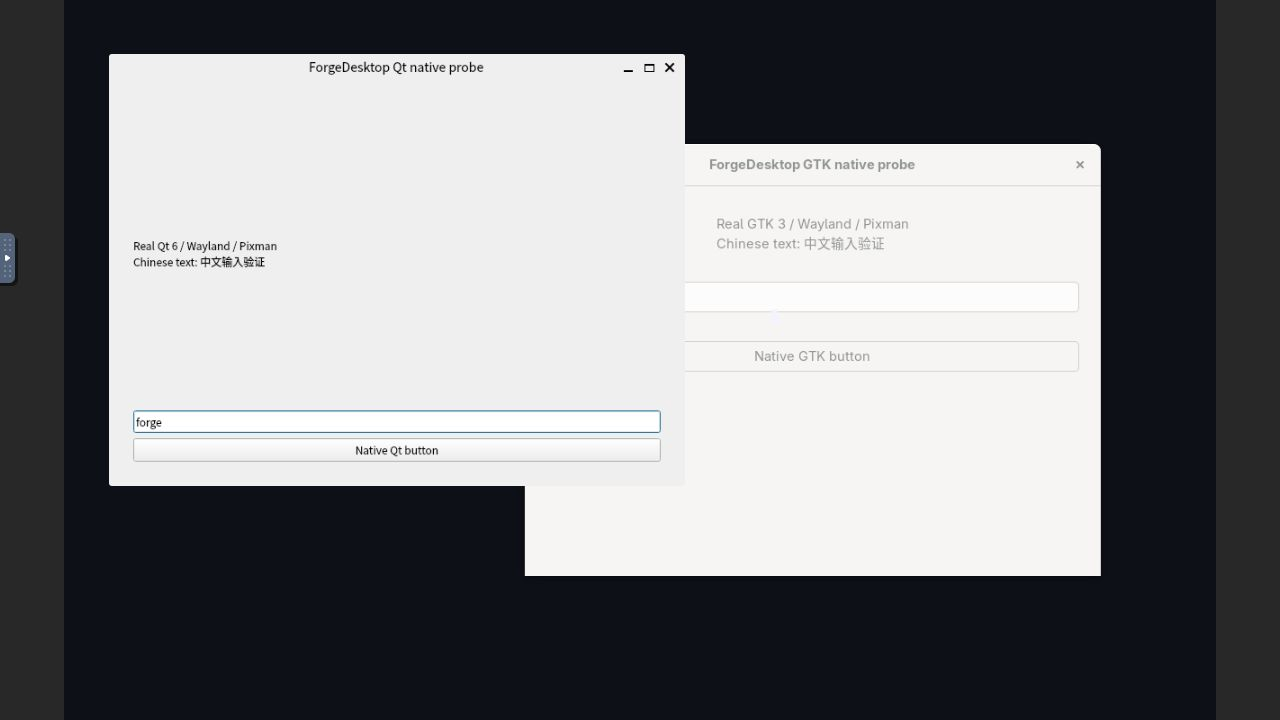
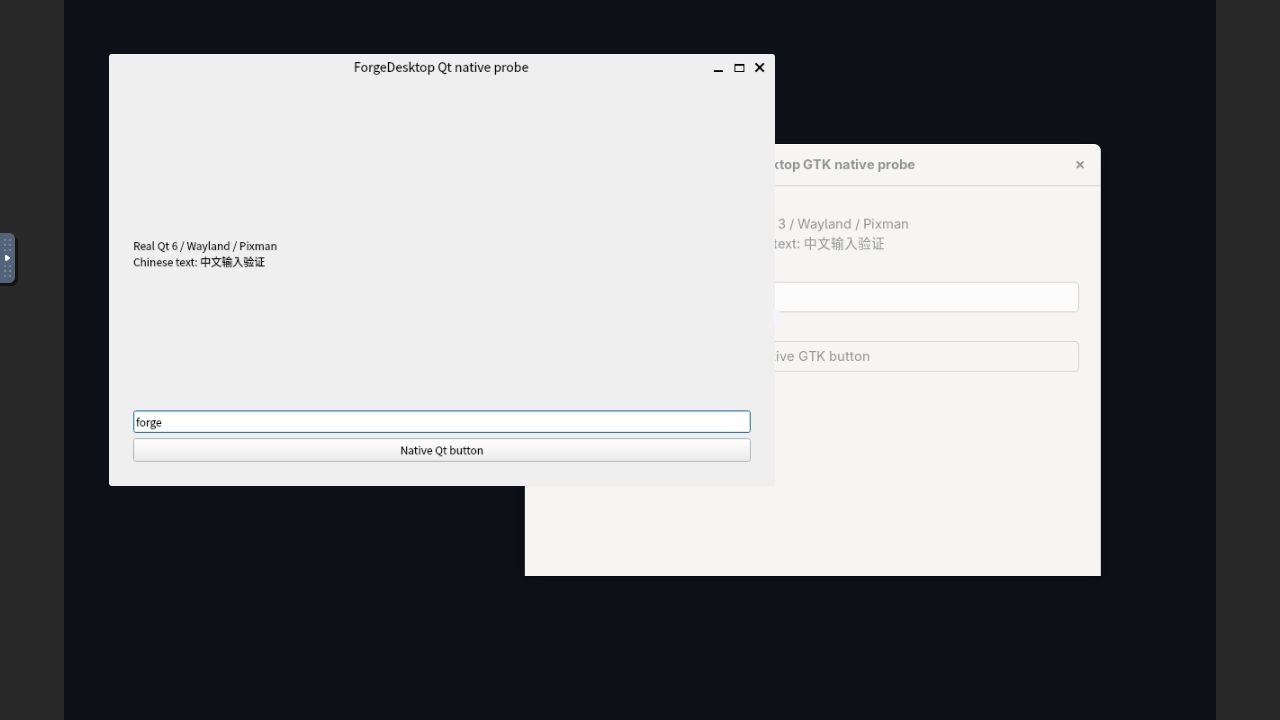
test(vm): add private isolated guest diagnostics

diff --git a/tests/fixtures/isolated_guest.py b/tests/fixtures/isolated_guest.py
@@ -1,0 +1,97 @@
+#!/usr/bin/env python3
+"""Lab-only QEMU Guest Agent client for the disposable native-desktop VM.
+
+Never ship this fixture or qemu-guest-agent in the release desktop bundle. The
+channel gives the trusted VM host root execution inside its own isolated guest.
+No TCP listener, shell expansion, or production-instance selection is provided.
+"""
+import argparse
+import base64
+import json
+import secrets
+import socket
+import stat
+import os
+from pathlib import Path
+import time
+
+DIRECTORY = Path('/srv/forge-desktop-build/daily-test-vm')
+LIMIT = 4 * 1024 * 1024
+
+
+class Guest:
+    def __init__(self):
+        info = DIRECTORY.stat()
+        if DIRECTORY.is_symlink() or info.st_uid != os.geteuid() or info.st_mode & 0o077:
+            raise ValueError('isolated VM directory is not private to the current user')
+        path = DIRECTORY / 'qga.sock'
+        if path.is_symlink() or not stat.S_ISSOCK(path.stat().st_mode):
+            raise ValueError('isolated guest socket missing')
+        self.socket = socket.socket(socket.AF_UNIX, socket.SOCK_STREAM)
+        self.socket.settimeout(10)
+        self.socket.connect(str(path))
+        self.reader = self.socket.makefile('rb')
+        nonce = secrets.randbits(63)
+        self.socket.sendall(b'\xff' + json.dumps(dict(execute='guest-sync-delimited',
+                              arguments=dict(id=nonce))).encode() + b'\n')
+        for _ in range(16):
+            raw = self.line()
+            if b'\xff' in raw:
+                response = json.loads(raw.rsplit(b'\xff', 1)[1])
+                if response.get('return') == nonce:
+                    break
+        else:
+            raise ValueError('guest agent synchronization failed')
+
+    def line(self):
+        data = self.reader.readline(LIMIT + 1)
+        if len(data) > LIMIT or not data.endswith(b'\n'):
+            raise ValueError('guest response is incomplete or too large')
+        return data
+
+    def call(self, command, **arguments):
+        self.socket.sendall(json.dumps(dict(execute=command, arguments=arguments)).encode() + b'\n')
+        response = json.loads(self.line())
+        if 'error' in response:
+            raise RuntimeError(response['error'])
+        return response['return']
+
+    def execute(self, argv, timeout=30):
+        pid = self.call('guest-exec', path=argv[0], arg=argv[1:], **{'capture-output': True})['pid']
+        deadline = time.monotonic() + timeout
+        while time.monotonic() < deadline:
+            result = self.call('guest-exec-status', pid=pid)
+            if result['exited']:
+                for key in ('out-data', 'err-data'):
+                    if key in result:
+                        result[key] = base64.b64decode(result[key], validate=True).decode('utf-8', 'replace')
+                return result
+            time.sleep(0.1)
+        raise TimeoutError('guest command still running; do not blindly retry a mutation')
+
+    def close(self):
+        self.reader.close()
+        self.socket.close()
+
+
+def main():
+    parser = argparse.ArgumentParser(description=__doc__)
+    parser.add_argument('--timeout', type=int, default=30)
+    parser.add_argument('command', nargs=argparse.REMAINDER)
+    args = parser.parse_args()
+    if not args.command or not args.command[0].startswith('/') or not 1 <= args.timeout <= 600:
+        parser.error('provide an absolute guest executable and a timeout from 1 to 600 seconds')
+    guest = Guest()
+    try:
+        marker = guest.execute(['/usr/bin/cat', '/etc/forgedesktop-isolated-test'])
+        if marker.get('exitcode') != 0 or marker.get('out-data', '').strip() != 'forgedesktop-daily-test':
+            raise ValueError('refusing execution outside the marked disposable test guest')
+        result = guest.execute(args.command, args.timeout)
+        print(json.dumps(result, ensure_ascii=False))
+        return result.get('exitcode', 1)
+    finally:
+        guest.close()
+
+
+if __name__ == '__main__':
+    raise SystemExit(main())

diff --git a/docs/evidence/m1/isolated-diagnostics.md b/docs/evidence/m1/isolated-diagnostics.md
@@ -1,0 +1,38 @@
+# Isolated guest diagnostics
+
+The disposable `forgedesktop-daily-test.raw` now includes signed Arch snapshot
+packages `qemu-guest-agent 11.0.3-1` and `numactl 2.0.19-1`. Their archives and
+detached signatures were checked by pacman against the existing pinned builder
+keyring. This test-only addition is excluded from the release artifact/image.
+
+Normal QMP ACPI shutdown preceded offline installation. After restart, actual
+Guest Agent `guest-exec` returned the process list: qemu-ga PID 371 UID 0,
+compositor PID 595 UID 1000, Qt probe PID 620 UID 1000, GTK probe PID 716 UID 1000.
+This establishes that the diagnostics channel and existing desktop session both
+run in the isolated VM. It is not a performance or M4 cycle acceptance result.
+
+The service drop-in is `tests/fixtures/isolated-qemu-guest-agent.conf`. The
+required marker is `/etc/forgedesktop-isolated-test` containing exactly
+`forgedesktop-daily-test`. The channel uses QEMU virtio serial and a Unix socket
+at `/srv/forge-desktop-build/daily-test-vm/qga.sock`, beneath an owner-only host
+directory. No guest NIC, TCP listener or production-instance selection is added.
+
+The trusted VM host can execute root diagnostics in its disposable guest using
+`tests/fixtures/isolated_guest.py`. It synchronizes the QGA stream, bounds
+responses, verifies the guest marker before the requested executable, and
+passes an argument array without shell expansion. Commands that need desktop
+permissions must explicitly use `runuser -u forge`; root execution does not
+prove that an ordinary desktop user has permission. A command timeout does not
+kill its guest process; inspect the guest before retrying a mutation.
+
+QEMU launch additions:
+
+```
+-device virtio-serial-pci
+-chardev socket,path=/srv/forge-desktop-build/daily-test-vm/qga.sock,server=on,wait=off,id=qga
+-device virtserialport,chardev=qga,name=org.qemu.guest_agent.0
+```
+
+This fixture is never installed into the user's current daily VM, which remains
+on its existing XFCE/R-OS base and overlay. Protocol reference:
+https://www.qemu.org/docs/master/interop/qemu-ga-ref.html
